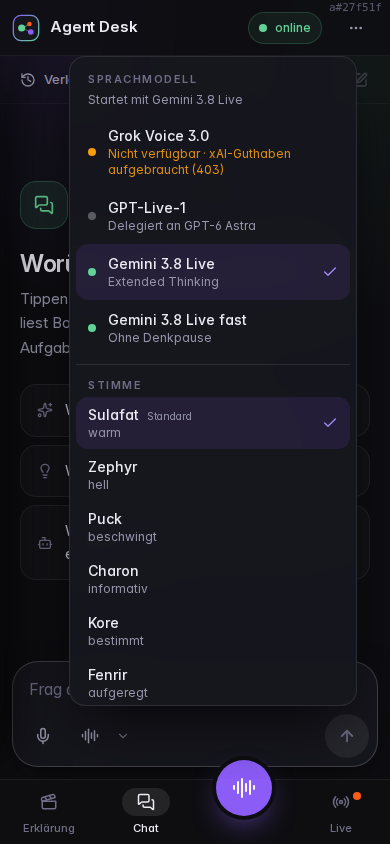
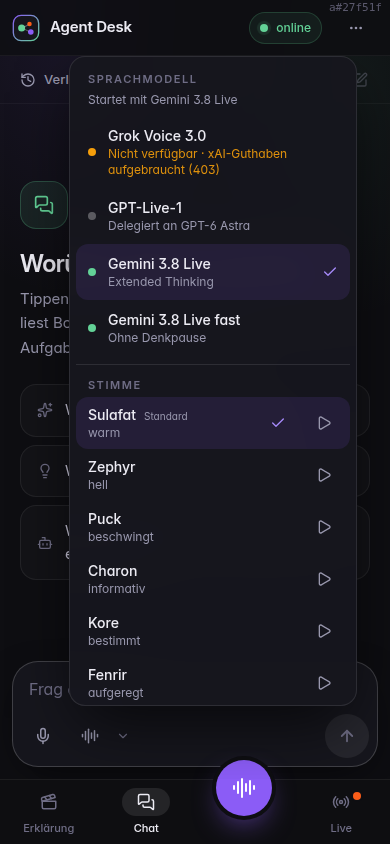
Docs: complete-log events in TRACE.md; picker screenshots with the play buttons

diff --git a/docs/TRACE.md b/docs/TRACE.md
@@ -37,7 +37,20 @@ Every voice session (`/api/voice`) and every text conversation (`/api/chat`) wri
   told to the live model as a passive note (`handoff.note {how,chars}`, briefing channel, no reply asked). `session_trace` prints them and the diagnosis counts failed clicks. A trace that has already closed
   (voice session over, chat idle 15 min) takes no more events; the audit lines `handoff.posted|failed|refused` are written regardless.
 - **Test.** `gateway/test/errors-logged.test.js` and `web/test/errors-logged.test.ts` scan the source for user-visible error strings and fail when one has no path to a log event.
-- **Reading.** Tool `session_trace {which}`; route `GET /api/session-lookup?q=<a#id|hex|slug|last>[&full=1]`.
+- **Complete logs (15 Nov 2026, Florian: "super umfangreiche vollumfängliche detaillierte logs").** Everything the model got:
+  `prompt.text {kind: instructions|history|briefing|screen|vocabulary|tools, hash, part, of, chars, text}` (3,800 chars per event; the same text twice
+  in a session only as `prompt.repeat {kind,hash}`; screen text with digits masked, at most one per 30 s). Every tool result as the model got it:
+  `tool.output {id,name,part,of,chars,fullChars,text}` (up to 8 parts; computer runs: size only), `tool.done` adds `fullChars` and `cut`;
+  `tool.timeout {name,ms}` (30 s), `tool.abandoned {count,reason}` at the session end. Tokens per vendor response: `usage {input, cached,
+  outputTokens, reasoning|thinking, audioIn, audioOut, model?, responseId?}` (OpenAI delegate, Gemini usageMetadata; xAI reports none).
+  Timing: `audio.first {msAfterQuestion}`, `audio.end {audioSeconds, firstChunkAgoMs}`, `turn.timing {kind, firstAudioMs, firstUsefulMs,
+  firstToolMs, tools, toolMs, firstWords}` (first useful = first assistant text that is no filler or promise). Memory: `memory.seed {conversation,
+  turns, seeded, older, tokens, summary: client|cache|fresh|none, text}`, `memory.summary {why, turns, upto, costUsd, text}`, `memory.summary_late`,
+  `memory.summary_failed`. Provider: `provider.go_away {timeLeft}`, `provider.closed {afterS, code, reason}`. Cap: `session.cap_warning`,
+  `session.rollover {reason}`, `session.rollover_skipped {reason, idleS}`. `session.start` adds `conversation` and the OpenAI `delegate`.
+  The 40-line timeline of `session_trace` leaves the detailed events out; `desk-trace <id> --json` has them all.
+- **Reading.** Tool `session_trace {which}` (diagnosis; start/end in Berlin time); the words: `conversation_history {query, session, from, to, page}`
+  and `desk_sessions {day}` (gateway/src/history.js); route `GET /api/session-lookup?q=<a#id|hex|slug|last>[&full=1]`.
 
 Env: `ARTIFACTS_URL`, `ARTIFACTS_DESK_TOKEN` (as for the device routes), `SOURCE_COMMIT` (recorded as `gateway_commit`;
 the Dockerfile exposes the Coolify build arg of that name).
